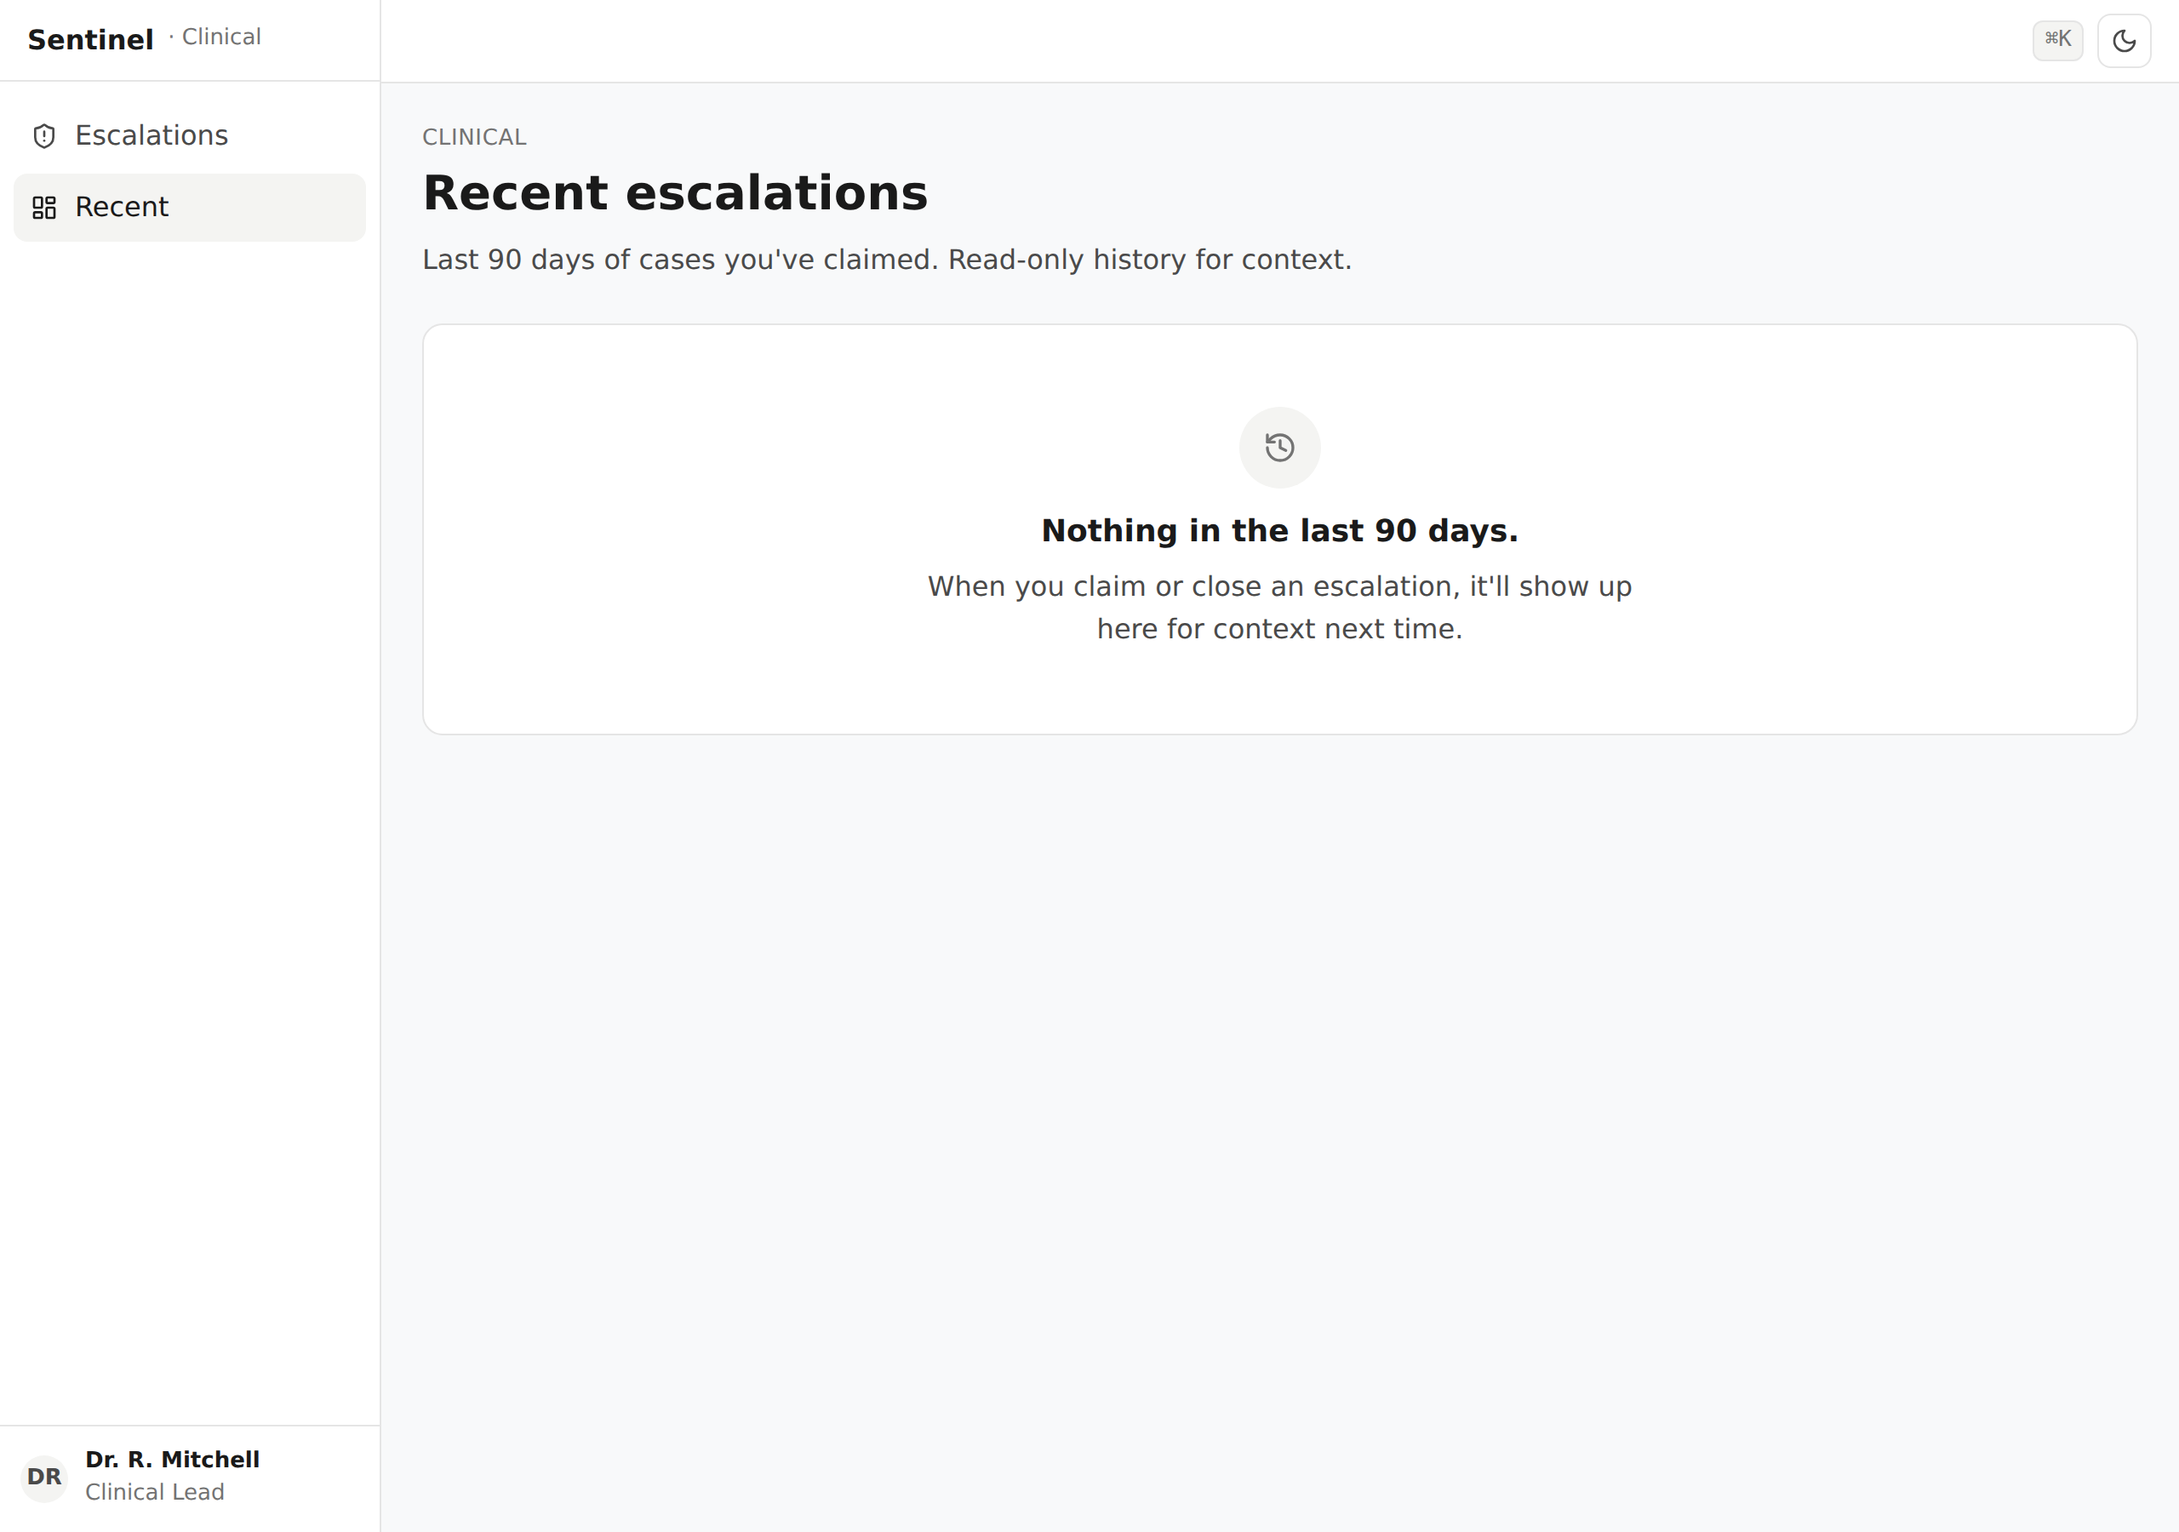
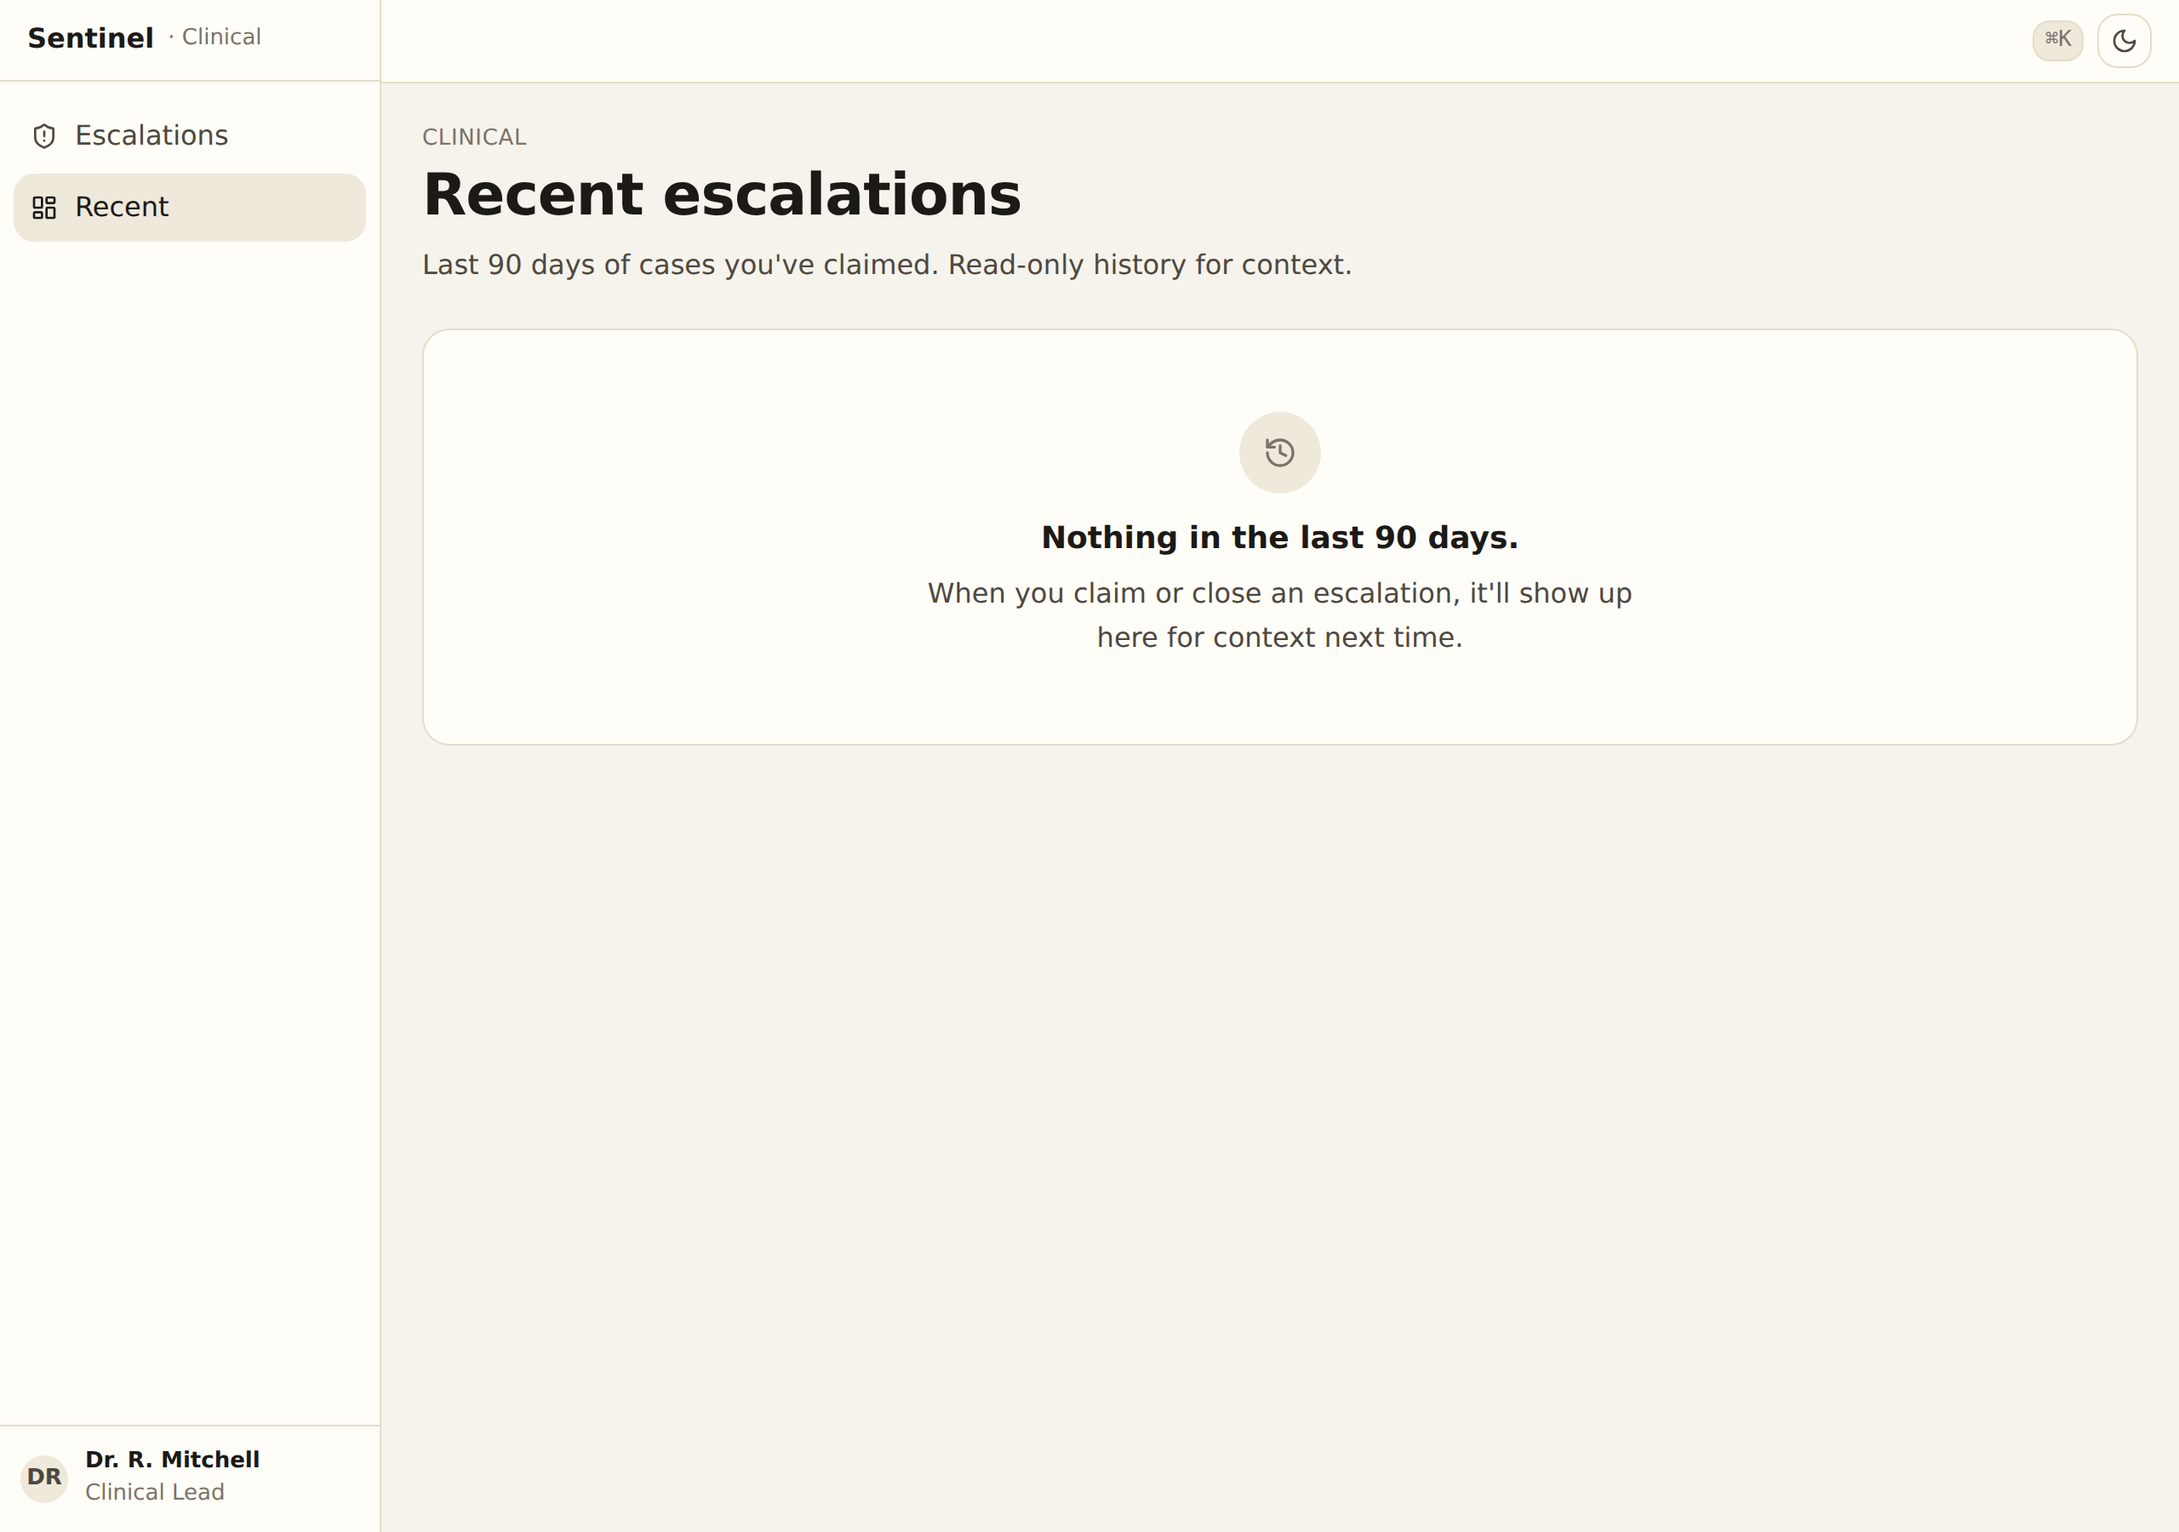
Add product mockups to landing — laptop + phone device frames
The page was too word-heavy. Now the hero leads with a real laptop
mockup of the coordinator triage queue and a phone overlay of the
veteran home — the same trick Stripe/Linear use to anchor a calm hero
with concrete product.

New
- LaptopFrame + PhoneFrame components in src/components/marketing/.
  Pure-CSS device chrome: rounded bezel, subtle hinge, ring + raised
  shadow, fixed 16:10 / 9:19.5 aspect ratios. Next/Image inside for
  optimization.
- A full "A look at the product" section sits between How-it-works
  and FAQ — three phone callouts (check-in, home, trends) above, then
  two laptop-plus-prose blocks (coordinator queue, per-veteran
  timeline). Concrete visuals replace blocks of prose.
- Marketing screenshots captured at proper viewport aspect ratios
  (390x844 phone, 1280x800 laptop), seeded with real risk data via
  SCREENSHOT_BYPASS, copied to /public/marketing/ for Next/Image.
- scripts/screenshot-marketing.mjs — one-shot recapture for the
  marketing aspect ratios.
- Section-shot script forces all <img> to eager + waits for decode
  before snapshot. Hero phone overlay was empty otherwise.

Refresh
- 10 landing section shots (added landing-section-7-product).
- Full-page light/dark/mobile.
- All 27 app surfaces recaptured with the warm palette.

https://claude.ai/code/session_01RyfXf4dcWQAf1XrrTxJjEN

diff --git a/src/app/page.tsx b/src/app/page.tsx
@@ -13,6 +13,7 @@ import {
   Heart,
   ClipboardList,
 } from "lucide-react";
+import { LaptopFrame, PhoneFrame } from "@/components/marketing/device-frame";
 import { ThemeToggle } from "@/components/sentinel/theme-toggle";
 
 /**
@@ -352,6 +353,30 @@ export default function Home() {
               </Link>
             </div>
           </div>
+
+          {/* HERO PRODUCT SHOT — laptop with queue, phone overlapping with veteran home */}
+          <div className="container max-w-6xl px-6 pb-24">
+            <div className="relative">
+              <LaptopFrame
+                src="/marketing/product-coordinator-queue.png"
+                alt="Coordinator triage queue showing three veterans ordered by SLA — one Outreach overdue, two Watch with 17 hours remaining."
+                width={1100}
+                priority
+                className="animate-fade-up"
+              />
+              <div className="pointer-events-none absolute -bottom-8 right-2 hidden w-[180px] sm:block lg:right-8 lg:-bottom-10 lg:w-[220px]">
+                <PhoneFrame
+                  src="/marketing/product-veteran-home.png"
+                  alt="Veteran home screen — 'Hi, Marcus. About 5 minutes. Skip what you want.'"
+                  width={220}
+                  priority
+                />
+              </div>
+            </div>
+            <p className="mt-10 text-center text-caption text-ink-tertiary sm:mt-12">
+              Left: coordinator triage queue. Right: a veteran's weekly check-in on their phone.
+            </p>
+          </div>
         </section>
 
         {/* THREE AUDIENCES */}
@@ -530,6 +555,111 @@ export default function Home() {
               <Step n={3} title="The system watches for pattern shifts." body="A risk engine weighs each check-in across nine domains against the veteran's own four-week baseline. Trajectory, not absolute scores." />
               <Step n={4} title="A trained human reaches out — quietly." body="The coordinator gets the right amount of context: what shifted, when, and a recommended action. No alarm-bell language. No clinical decisions made by software." />
             </ol>
+          </div>
+        </section>
+
+        {/* PRODUCT GALLERY — show the real surfaces */}
+        <section className="border-t border-border">
+          <div className="container max-w-6xl px-6 py-24">
+            <p className="text-caption uppercase tracking-wide text-ink-tertiary">A look at the product</p>
+            <h2 className="mt-3 max-w-3xl text-balance font-serif text-[28px] font-normal leading-[1.2] tracking-[-0.015em] text-ink-primary sm:text-[40px]">
+              The actual screens. No glossy mockups.
+            </h2>
+            <p className="mt-4 max-w-2xl text-body text-ink-secondary">
+              Every shot below is the live product, captured from the same build a real cohort
+              uses.
+            </p>
+
+            <div className="mt-12 grid items-end gap-10 sm:grid-cols-2 lg:grid-cols-3">
+              <ProductCallout
+                eyebrow="Veteran · weekly check-in"
+                title="One question at a time."
+                body="A calm screen, plain language, no scoring shown back. Skip what you want; stop anytime; drafts auto-save."
+              >
+                <PhoneFrame
+                  src="/marketing/product-veteran-checkin.png"
+                  alt="Check-in question: 'On most nights this week, about how many hours did you sleep?'"
+                  width={260}
+                />
+              </ProductCallout>
+              <ProductCallout
+                eyebrow="Veteran · home"
+                title="What this week is about."
+                body="Your coordinator's name. The 988 line one tap away. A reminder of what they see — and what they don't."
+              >
+                <PhoneFrame
+                  src="/marketing/product-veteran-home.png"
+                  alt="Veteran home — week 10 of 52, 5-minute check-in card, coordinator card, crisis line card."
+                  width={260}
+                />
+              </ProductCallout>
+              <ProductCallout
+                eyebrow="Veteran · trends"
+                title="Trajectory, not a score."
+                body="The same nine domains the engine watches — but read in plain words instead of numbers. You see what your coordinator sees."
+              >
+                <PhoneFrame
+                  src="/marketing/product-veteran-trends.png"
+                  alt="Veteran trends — domain readings with plain-language summaries."
+                  width={260}
+                />
+              </ProductCallout>
+            </div>
+
+            <div className="mt-16 grid items-center gap-10 lg:grid-cols-2">
+              <div>
+                <p className="text-caption uppercase tracking-wide text-ink-tertiary">Coordinator · triage queue</p>
+                <h3 className="mt-3 font-serif text-[26px] font-normal leading-tight text-ink-primary sm:text-[30px]">
+                  A queue that already knows where to look.
+                </h3>
+                <p className="mt-4 text-body text-ink-secondary">
+                  Veterans are ordered by SLA — the row at the top is the call to make next. Each
+                  row carries the context a coordinator would otherwise have to assemble: which
+                  domain shifted, when, what the veteran said in their own words, and the
+                  recommended timeframe.
+                </p>
+                <ul className="mt-5 space-y-2 text-body text-ink-secondary">
+                  <li className="flex gap-3">
+                    <span aria-hidden className="mt-2 h-1.5 w-1.5 rounded-full bg-risk-orange" />
+                    <span><strong className="text-ink-primary">Outreach</strong> — single-domain drift past the watch threshold. 24-hour window.</span>
+                  </li>
+                  <li className="flex gap-3">
+                    <span aria-hidden className="mt-2 h-1.5 w-1.5 rounded-full bg-risk-yellow" />
+                    <span><strong className="text-ink-primary">Watch</strong> — a softer flag with a longer window. Same context, more time.</span>
+                  </li>
+                  <li className="flex gap-3">
+                    <span aria-hidden className="mt-2 h-1.5 w-1.5 rounded-full bg-risk-red" />
+                    <span><strong className="text-ink-primary">Immediate</strong> — explicit risk language, or a compounding pattern. Same screen, top of the list.</span>
+                  </li>
+                </ul>
+              </div>
+              <LaptopFrame
+                src="/marketing/product-coordinator-queue.png"
+                alt="Coordinator queue with three veterans: one Outreach overdue, two Watch with hours remaining. Real-time updates indicator at the top."
+                width={900}
+              />
+            </div>
+
+            <div className="mt-16 grid items-center gap-10 lg:grid-cols-2">
+              <LaptopFrame
+                src="/marketing/product-coordinator-veteran.png"
+                alt="Per-veteran coordinator timeline showing domain sparklines, recent flags, recommended next action, contact log."
+                width={900}
+                className="lg:order-1"
+              />
+              <div className="lg:order-2">
+                <p className="text-caption uppercase tracking-wide text-ink-tertiary">Coordinator · per-veteran timeline</p>
+                <h3 className="mt-3 font-serif text-[26px] font-normal leading-tight text-ink-primary sm:text-[30px]">
+                  Twelve weeks at a glance. No clinical jargon.
+                </h3>
+                <p className="mt-4 text-body text-ink-secondary">
+                  Nine domain sparklines side by side, the veteran's own words from recent
+                  check-ins, every contact you've already logged, and the engine's recommended
+                  next action — all on one screen. Built so a coordinator who just came back
+                  from leave can be useful in under a minute.
+                </p>
+              </div>
+            </div>
           </div>
         </section>
 
@@ -736,6 +866,27 @@ function Step({ n, title, body }: { n: number; title: string; body: string }) {
         <p className="mt-2 text-body text-ink-secondary">{body}</p>
       </div>
     </li>
+  );
+}
+
+function ProductCallout({
+  eyebrow,
+  title,
+  body,
+  children,
+}: {
+  eyebrow: string;
+  title: string;
+  body: string;
+  children: React.ReactNode;
+}) {
+  return (
+    <div className="flex flex-col items-center text-center">
+      {children}
+      <p className="mt-6 text-caption uppercase tracking-wide text-ink-tertiary">{eyebrow}</p>
+      <h3 className="mt-2 font-serif text-[22px] font-normal leading-tight text-ink-primary">{title}</h3>
+      <p className="mt-2 max-w-xs text-body text-ink-secondary">{body}</p>
+    </div>
   );
 }
 

diff --git a/src/components/marketing/device-frame.tsx b/src/components/marketing/device-frame.tsx
@@ -1,0 +1,120 @@
+/**
+ * LaptopFrame + PhoneFrame — pure-CSS device mockups for marketing visuals.
+ *
+ * Reason these exist: dropping raw screenshots onto the landing page reads as
+ * "embedded screenshot, not finished product." The thin chrome of a laptop or
+ * phone bezel signals "this is the real product running on a real device" —
+ * the same trick Stripe / Linear / Vercel use on their marketing pages.
+ *
+ * Both are decorative: aria-hidden, rendered as div + img (Next/Image).
+ * Real screenshots are kept under /public/marketing/, recaptured from the
+ * seed-screenshots dataset so the surface inside the frame matches reality.
+ */
+
+import Image from "next/image";
+
+interface LaptopFrameProps {
+  src: string;
+  alt: string;
+  /** Width hint passed to next/image. Aspect ratio fixed at 16:10. */
+  width?: number;
+  /** Optional className applied to the outer wrapper. */
+  className?: string;
+  /** Optional caption shown below the device. */
+  caption?: string;
+  priority?: boolean;
+}
+
+export function LaptopFrame({
+  src,
+  alt,
+  width = 1280,
+  className,
+  caption,
+  priority = false,
+}: LaptopFrameProps) {
+  const height = Math.round((width * 10) / 16);
+  return (
+    <figure className={className} aria-hidden={!caption}>
+      <div className="relative mx-auto" style={{ maxWidth: width }}>
+        {/* Lid / screen */}
+        <div className="rounded-[14px] border border-border bg-canvas-card p-2 shadow-raised ring-1 ring-black/5 dark:ring-white/10 sm:rounded-[18px] sm:p-2.5">
+          <div className="overflow-hidden rounded-[8px] bg-canvas-banded sm:rounded-[10px]">
+            <Image
+              src={src}
+              alt={alt}
+              width={width}
+              height={height}
+              priority={priority}
+              className="block h-auto w-full"
+            />
+          </div>
+        </div>
+        {/* Base / hinge — two trapezoids using clip-path */}
+        <div
+          aria-hidden
+          className="mx-auto -mt-px h-3 w-[102%] rounded-b-md bg-canvas-banded ring-1 ring-border"
+          style={{ clipPath: "polygon(2% 0, 98% 0, 100% 100%, 0 100%)" }}
+        />
+        <div
+          aria-hidden
+          className="mx-auto -mt-1 h-1 w-[40%] rounded-b bg-border-strong/40"
+        />
+      </div>
+      {caption && (
+        <figcaption className="mt-4 text-center text-caption text-ink-tertiary">
+          {caption}
+        </figcaption>
+      )}
+    </figure>
+  );
+}
+
+interface PhoneFrameProps {
+  src: string;
+  alt: string;
+  /** Width hint passed to next/image. Aspect ratio fixed at 9:19.5 (iPhone-like). */
+  width?: number;
+  className?: string;
+  caption?: string;
+  priority?: boolean;
+}
+
+export function PhoneFrame({
+  src,
+  alt,
+  width = 280,
+  className,
+  caption,
+  priority = false,
+}: PhoneFrameProps) {
+  const height = Math.round((width * 19.5) / 9);
+  return (
+    <figure className={className} aria-hidden={!caption}>
+      <div className="relative mx-auto" style={{ maxWidth: width }}>
+        <div className="rounded-[36px] border border-border bg-canvas-card p-2 shadow-raised ring-1 ring-black/5 dark:ring-white/10">
+          <div className="relative overflow-hidden rounded-[28px] bg-canvas-banded">
+            {/* Speaker notch */}
+            <div
+              aria-hidden
+              className="absolute left-1/2 top-2 z-10 h-4 w-20 -translate-x-1/2 rounded-full bg-black/85"
+            />
+            <Image
+              src={src}
+              alt={alt}
+              width={width}
+              height={height}
+              priority={priority}
+              className="block h-auto w-full"
+            />
+          </div>
+        </div>
+      </div>
+      {caption && (
+        <figcaption className="mt-3 text-center text-caption text-ink-tertiary">
+          {caption}
+        </figcaption>
+      )}
+    </figure>
+  );
+}
